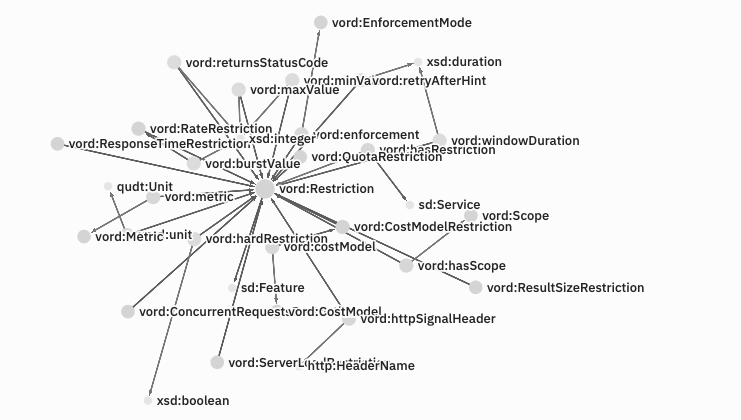
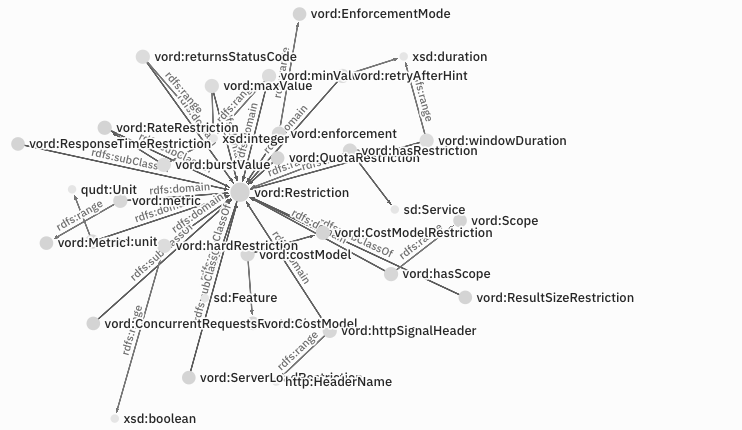
Retake VoRD screenshots from the v1.6.0 site and fix the Ontology box
The in-use slide now shows VoRD's companion site as rebuilt with OCG v1.6.0
(new design, predicate labels on graph edges). On the build slide the
Ontology input listed four formats on one line, wider than its box; split it
over two lines and move the other input boxes down to fit.

diff --git a/index.html b/index.html
@@ -935,9 +935,9 @@
         <svg viewBox="0 0 880 330" role="img" aria-label="Inputs: the ontology in Turtle, RDF/XML, JSON-LD or N-Triples, optional SHACL, ShEx, examples and a ReSpec specification, and one ocg.config.json file. The build parses the RDF, lays out the graph, renders pages with embedded JSON-LD and can run an OOPS! pitfall scan. The output site has home, reference, term, graph, usage guide, specification and pitfall pages, deployed to GitHub Pages by GitHub Actions on every push. An optional persistent-IRI setup lets an RDF client receive Turtle through a w3id 303 redirect, while a browser following a term IRI lands on that term's page.">
           <g>
             <text x="0" y="16" class="t-label t-strong">Inputs</text>
-            <rect class="chip" x="0" y="28" width="206" height="46" rx="10" /><text x="14" y="48" class="t-label t-strong">Ontology</text><text x="14" y="66" class="t-small">Turtle · RDF/XML · JSON-LD · N-Triples</text>
-            <rect class="chip" x="0" y="82" width="206" height="46" rx="10" /><text x="14" y="102" class="t-label t-strong">Shapes &amp; docs</text><text x="14" y="120" class="t-small">SHACL · ShEx · examples · ReSpec</text>
-            <rect class="chip--focus" x="0" y="136" width="206" height="46" rx="10" /><text x="14" y="156" class="t-code t-strong">ocg.config.json</text><text x="14" y="174" class="t-small">metadata · pages · theme · IRIs</text>
+            <rect class="chip" x="0" y="26" width="206" height="62" rx="10" /><text x="14" y="46" class="t-label t-strong">Ontology</text><text x="14" y="64" class="t-small">Turtle · RDF/XML</text><text x="14" y="80" class="t-small">JSON-LD · N-Triples</text>
+            <rect class="chip" x="0" y="96" width="206" height="46" rx="10" /><text x="14" y="116" class="t-label t-strong">Shapes &amp; docs</text><text x="14" y="134" class="t-small">SHACL · ShEx · examples · ReSpec</text>
+            <rect class="chip--focus" x="0" y="150" width="206" height="46" rx="10" /><text x="14" y="170" class="t-code t-strong">ocg.config.json</text><text x="14" y="188" class="t-small">metadata · pages · theme · IRIs</text>
           </g>
           <g class="next">
             <path class="flow draw" pathLength="1" d="M212 105H246" />
